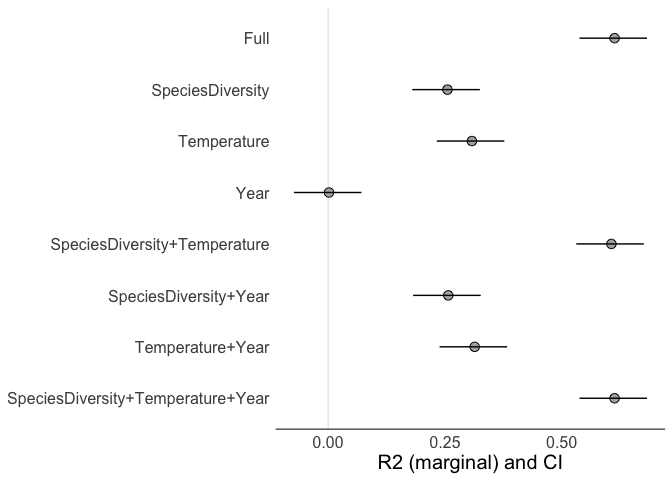
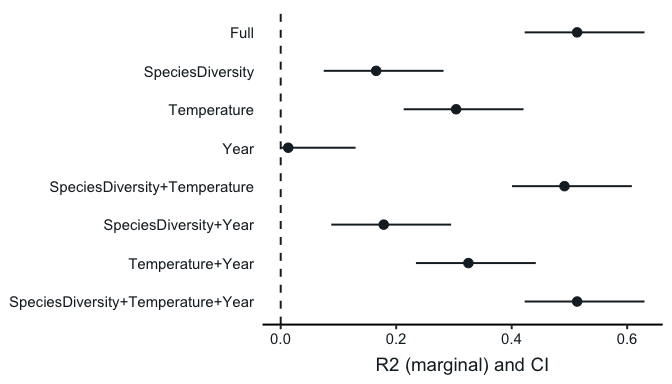
foresplot tweaked, now with arguments

diff --git a/README.md b/README.md
@@ -45,30 +45,32 @@ mod <- lmer(Biomass ~  Year + Temperature + SpeciesDiversity + (1|Population),
             data = biomass)
 
 (R2 <- partR2(mod,  partvars = c("SpeciesDiversity", "Temperature", "Year"),
-                                 R2_type = "marginal", nboot = 100, CI = 0.95))
+                                 R2_type = "marginal", nboot = 100, CI = 0.95,
+                                 data = biomass))
 #> 
 #> 
 #> R2 (marginal) and CI (95%) for the full model: 
-#>  R2    CI_lower CI_upper
-#>  0.613 0.538    0.682   
+#>  R2     CI_lower CI_upper
+#>  0.5133 0.4225   0.63    
 #> 
 #> ----------
 #> 
 #> Partitioned R2s:
 #>  Predictor(s)                      R2     CI_lower CI_upper
-#>  SpeciesDiversity                  0.2552  0.180   0.325   
-#>  Temperature                       0.3076  0.232   0.377   
-#>  Year                              0.0017 -0.073   0.071   
-#>  SpeciesDiversity+Temperature      0.6060  0.531   0.675   
-#>  SpeciesDiversity+Year             0.2570  0.182   0.326   
-#>  Temperature+Year                  0.3135  0.238   0.383   
-#>  SpeciesDiversity+Temperature+Year 0.6129  0.538   0.682
+#>  SpeciesDiversity                  0.1653 0.0745   0.2820  
+#>  Temperature                       0.3038 0.2129   0.4205  
+#>  Year                              0.0130 0.0000   0.1297  
+#>  SpeciesDiversity+Temperature      0.4914 0.4006   0.6081  
+#>  SpeciesDiversity+Year             0.1784 0.0875   0.2951  
+#>  Temperature+Year                  0.3250 0.2342   0.4417  
+#>  SpeciesDiversity+Temperature+Year 0.5133 0.4225   0.6300
 ```
 
-And to plot the results:
+And to plot the
+results:
 
 ``` r
-forestplot(R2, type = "R2")
+forestplot(R2, type = "R2", line_size = 0.7, text_size = 14, point_size = 3)
 ```
 
 ![](README-plot-1.png)<!-- -->
